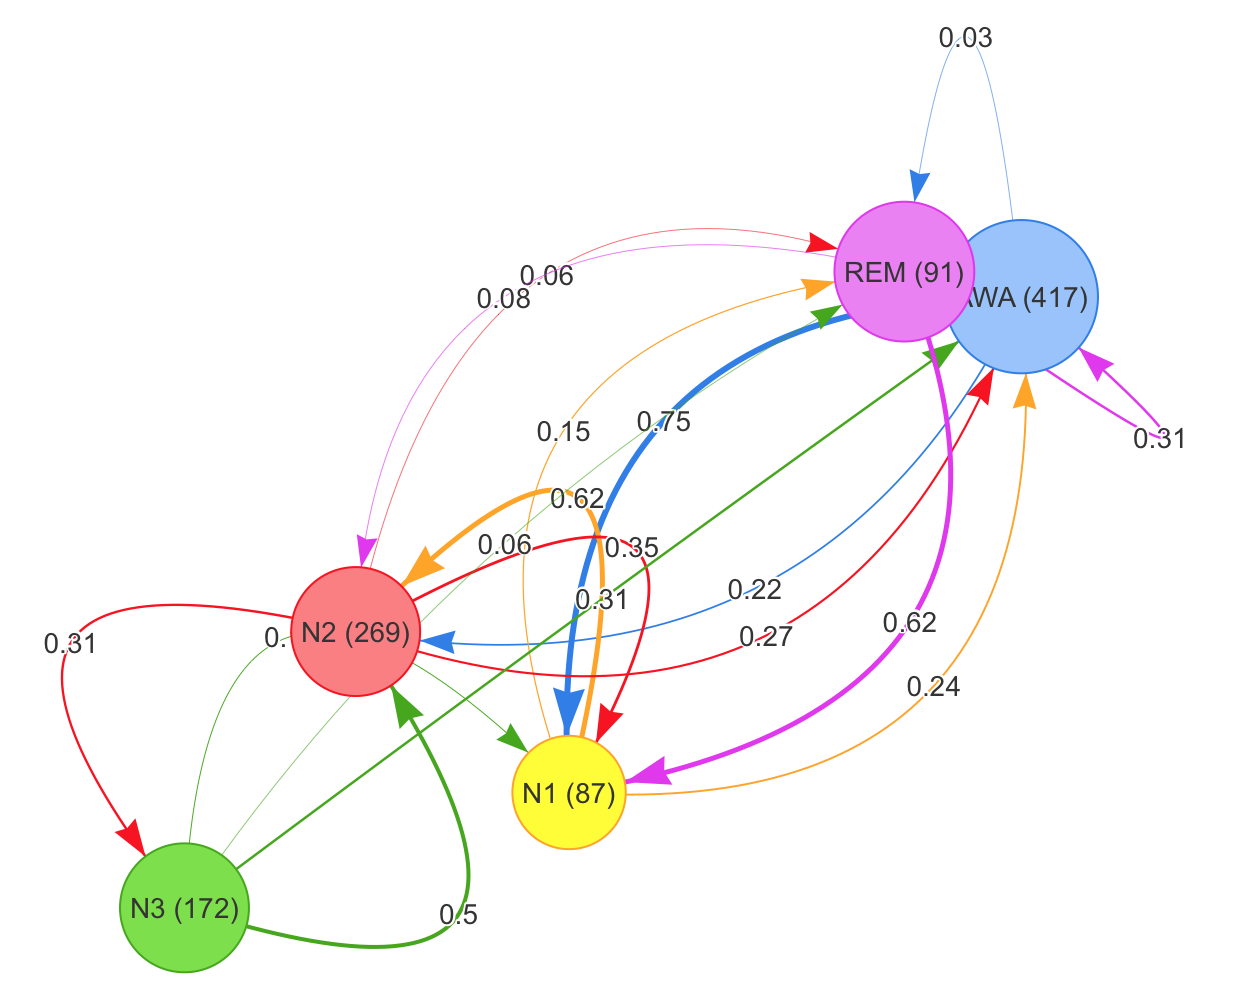
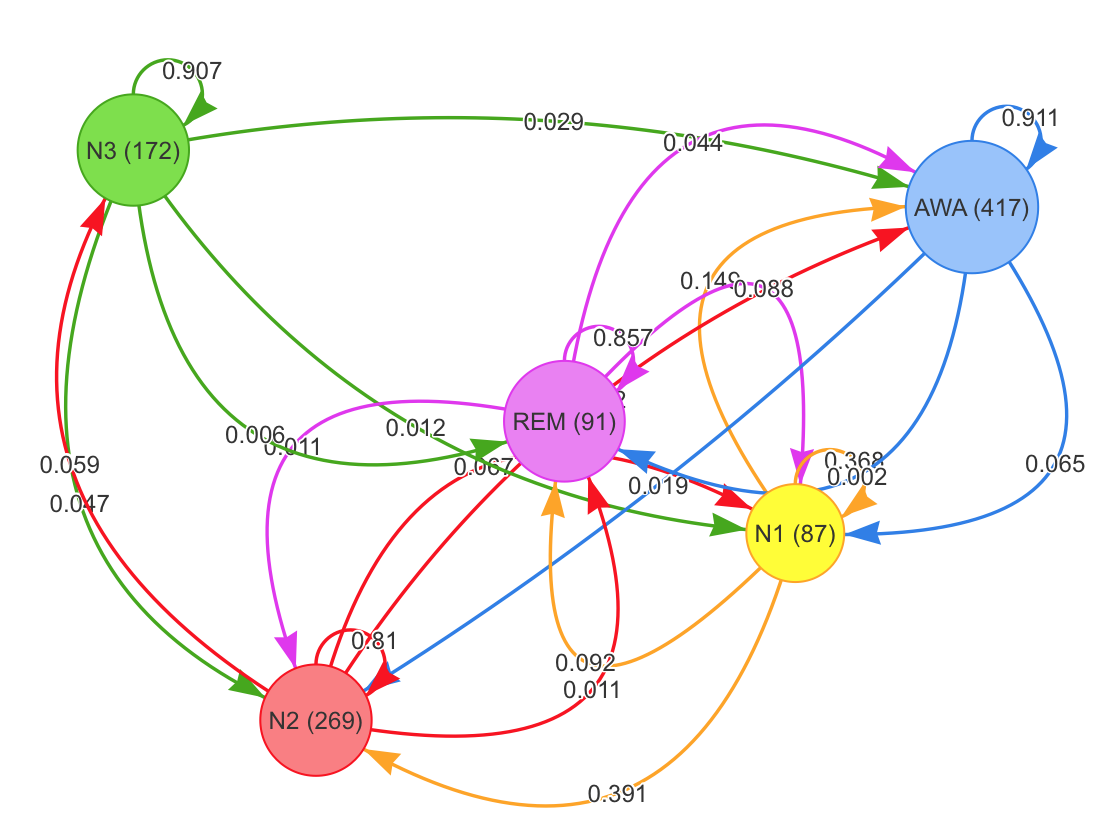
transition matrix

diff --git a/README.md b/README.md
@@ -52,15 +52,32 @@ threejs::scatterplot3js(powers$delta, powers$theta,
 
 <div align="center"><img src="man/powers.png" alt="spectral powers" width="402"/></div>
 
-#### Transitions graph
+### Transitions
+
+#### Statistics
 
 ```R
-record <- read_mdf("mdf/isruc-1-89-1/")
+h <- hypnogram(read_mdf("mdf/1/89/",channels = NA)[["events"]])
 
-powers <- sleepr::hypnogram_band_powers(record = record,
-                                        channel = "C3-M2")
+tm <- transition_matrix(h)
 
-sleepr::plot_transitions(record[["events"]])
+knitr::kable(round(tm, digits=3))
+```
+
+|    |   AWA|    N1|    N2|    N3|   REM|
+|:---|-----:|-----:|-----:|-----:|-----:|
+|AWA | 0.911| 0.065| 0.019| 0.000| 0.002|
+|N1  | 0.149| 0.368| 0.391| 0.000| 0.092|
+|N2  | 0.052| 0.067| 0.810| 0.059| 0.011|
+|N3  | 0.029| 0.012| 0.047| 0.907| 0.006|
+|REM | 0.044| 0.088| 0.011| 0.000| 0.857|
+
+#### Plot
+
+```R
+h <- hypnogram(read_mdf("mdf/1/89/",channels = NA)[["events"]])
+
+sleepr::plot_transitions(h)
 ```
 
 <div align="center"><img src="man/transitions.png" alt="transitions graph" width="550"/></div>
